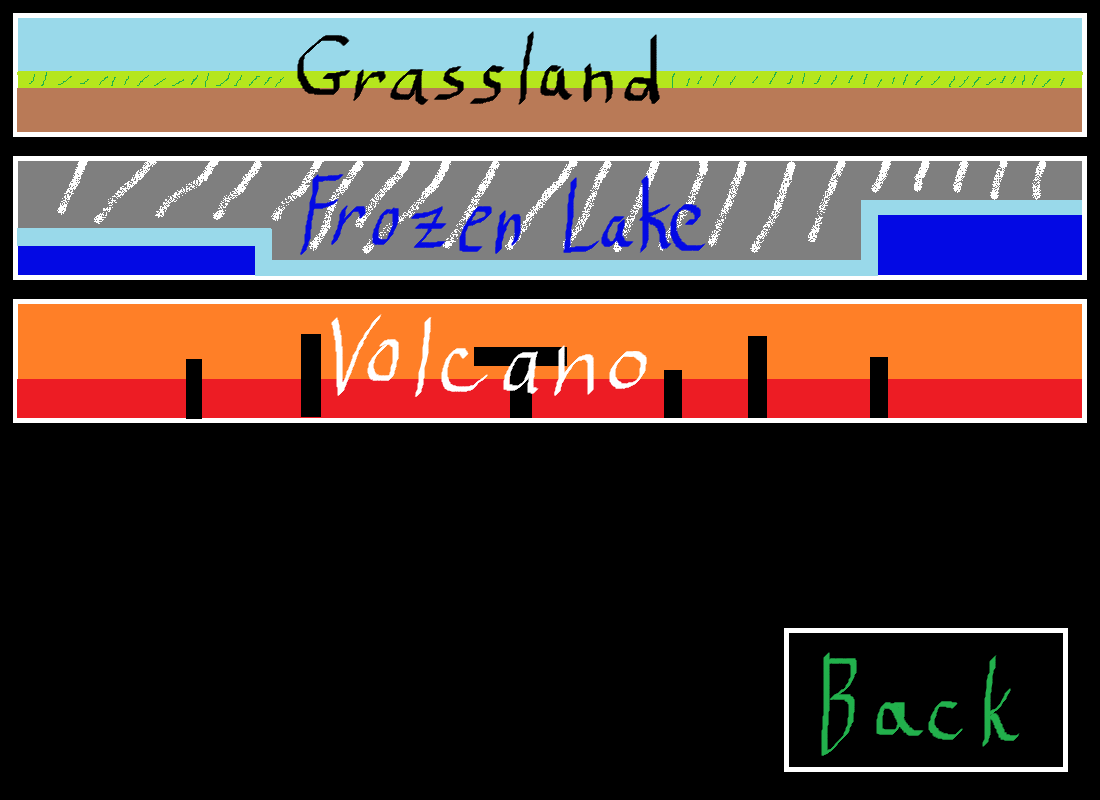
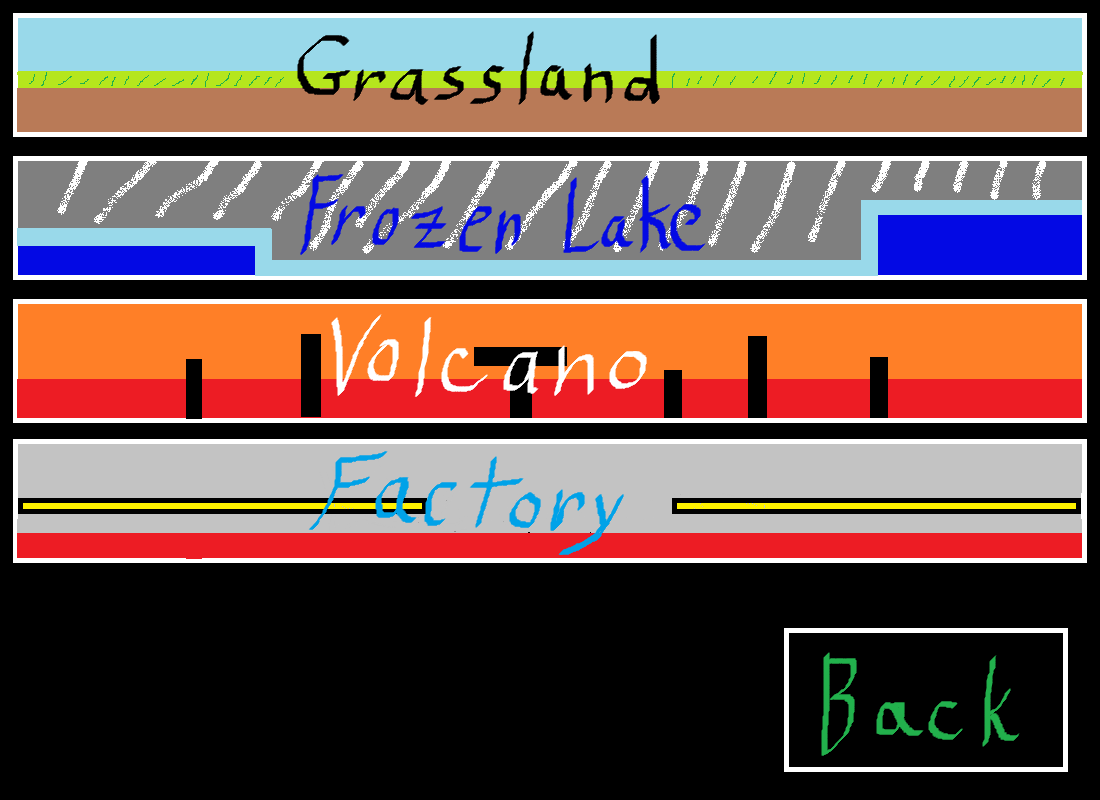
New map selection, "maze level"

Changed region(s): [[0.0, 0.5312, 0.9891, 0.7188]]

diff --git a/states/MapSelectionState.py b/states/MapSelectionState.py
@@ -6,6 +6,7 @@ from levels.IceLevel import IceLevel
 from levels.LavaLevel import LavaLevel
 from levels.RandomLevel import RandomLevel
 from levels.FactoryLevel import FactoryLevel
+from levels.Mazelevel import Mazelevel
 from utils.Colors import colors
 
 
@@ -25,7 +26,8 @@ class MapSelectionState(State):
             Rect(18, 160, 1064, 115): IceLevel(screen),
             Rect(18, 304, 1064, 114): LavaLevel(screen),
             Rect(18, 464, 10, 114): RandomLevel(screen),
-            Rect(18, 520, 1064, 114): FactoryLevel(screen, self.handler)
+            Rect(18, 444, 1064, 114): FactoryLevel(screen, self.handler),
+            Rect(20, 464, 40, 114): Mazelevel(screen),
         }
 
     def resetState(self):

diff --git a/levels/Mazelevel.py b/levels/Mazelevel.py
@@ -1,0 +1,18 @@
+from levels.Level import Level
+from src.Platform import Platform
+import time
+
+class Mazelevel(Level):
+
+    def __init__(self, screen):
+        super().__init__(screen, "media/Levels/Mazemap.png")
+
+        self.p1 = Platform(screen, 21, 122, 155, 122)
+        self.p2 = Platform(screen, 220, 122, 870, 122)
+        self.p3 = Platform(screen, 945, 122, 1080, 122)
+        self.platformGroup.add(self.p1)
+        self.platformGroup.add(self.p2)
+        self.platformGroup.add(self.p3)
+
+    def update(self, screen):
+        pass
